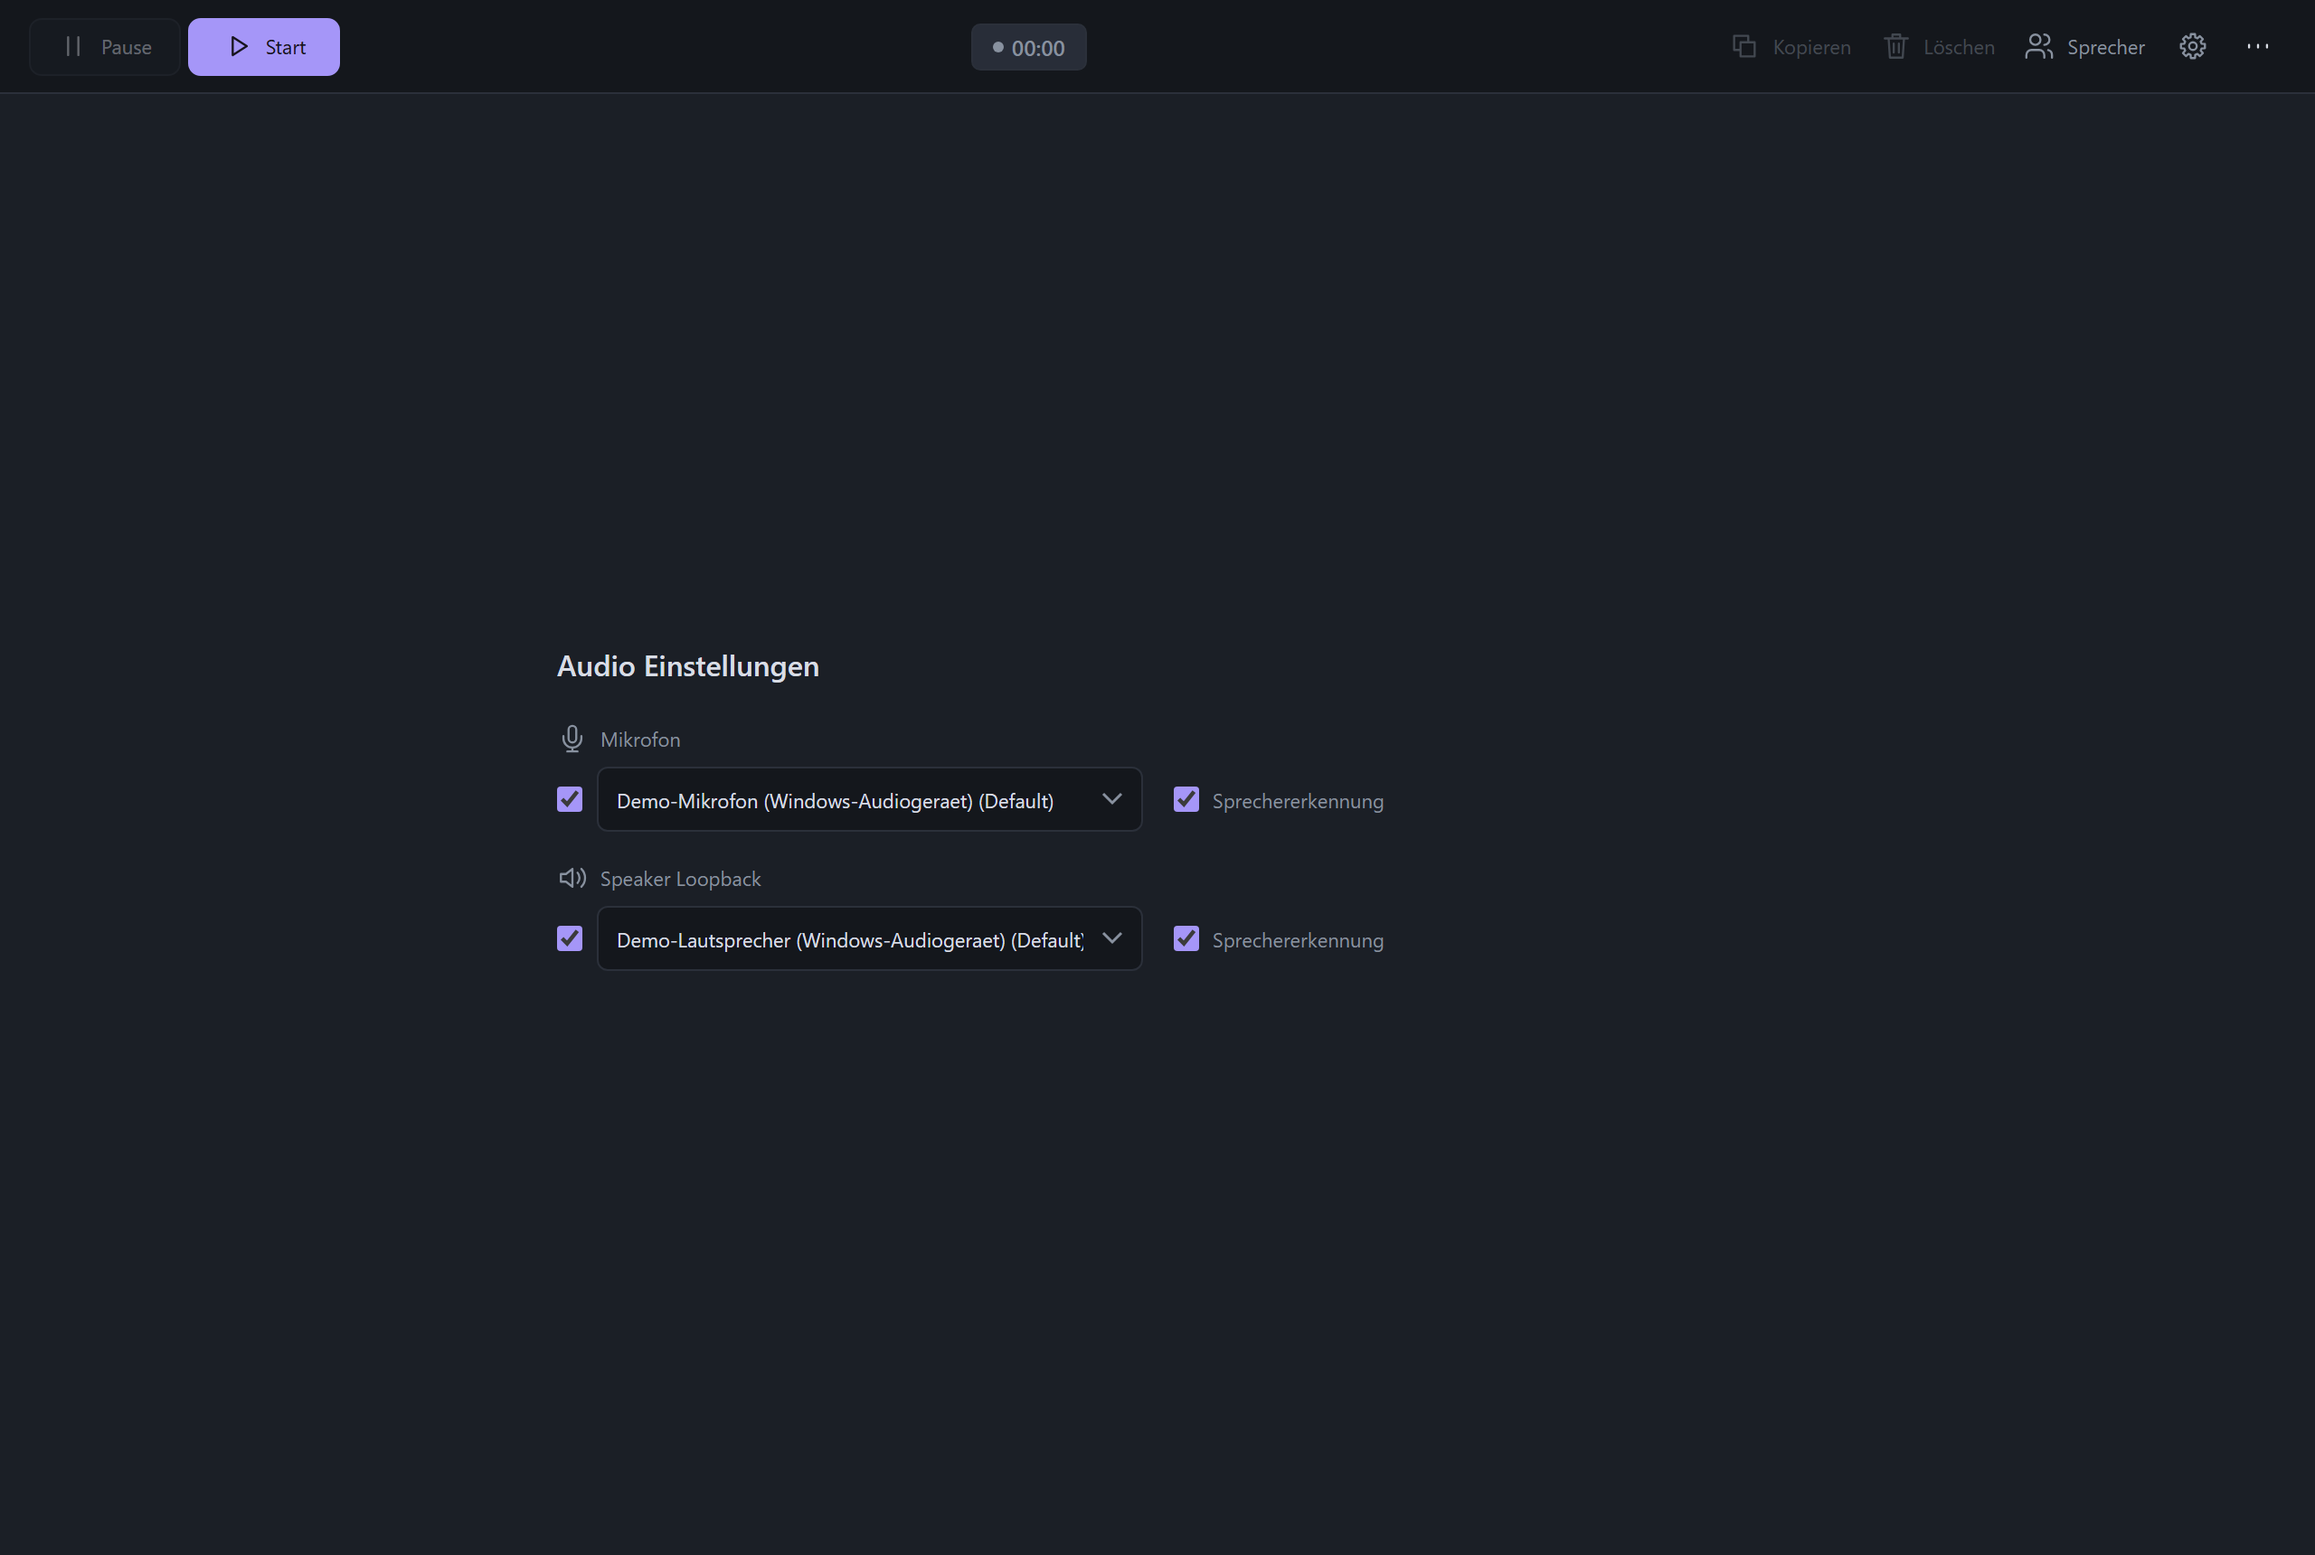
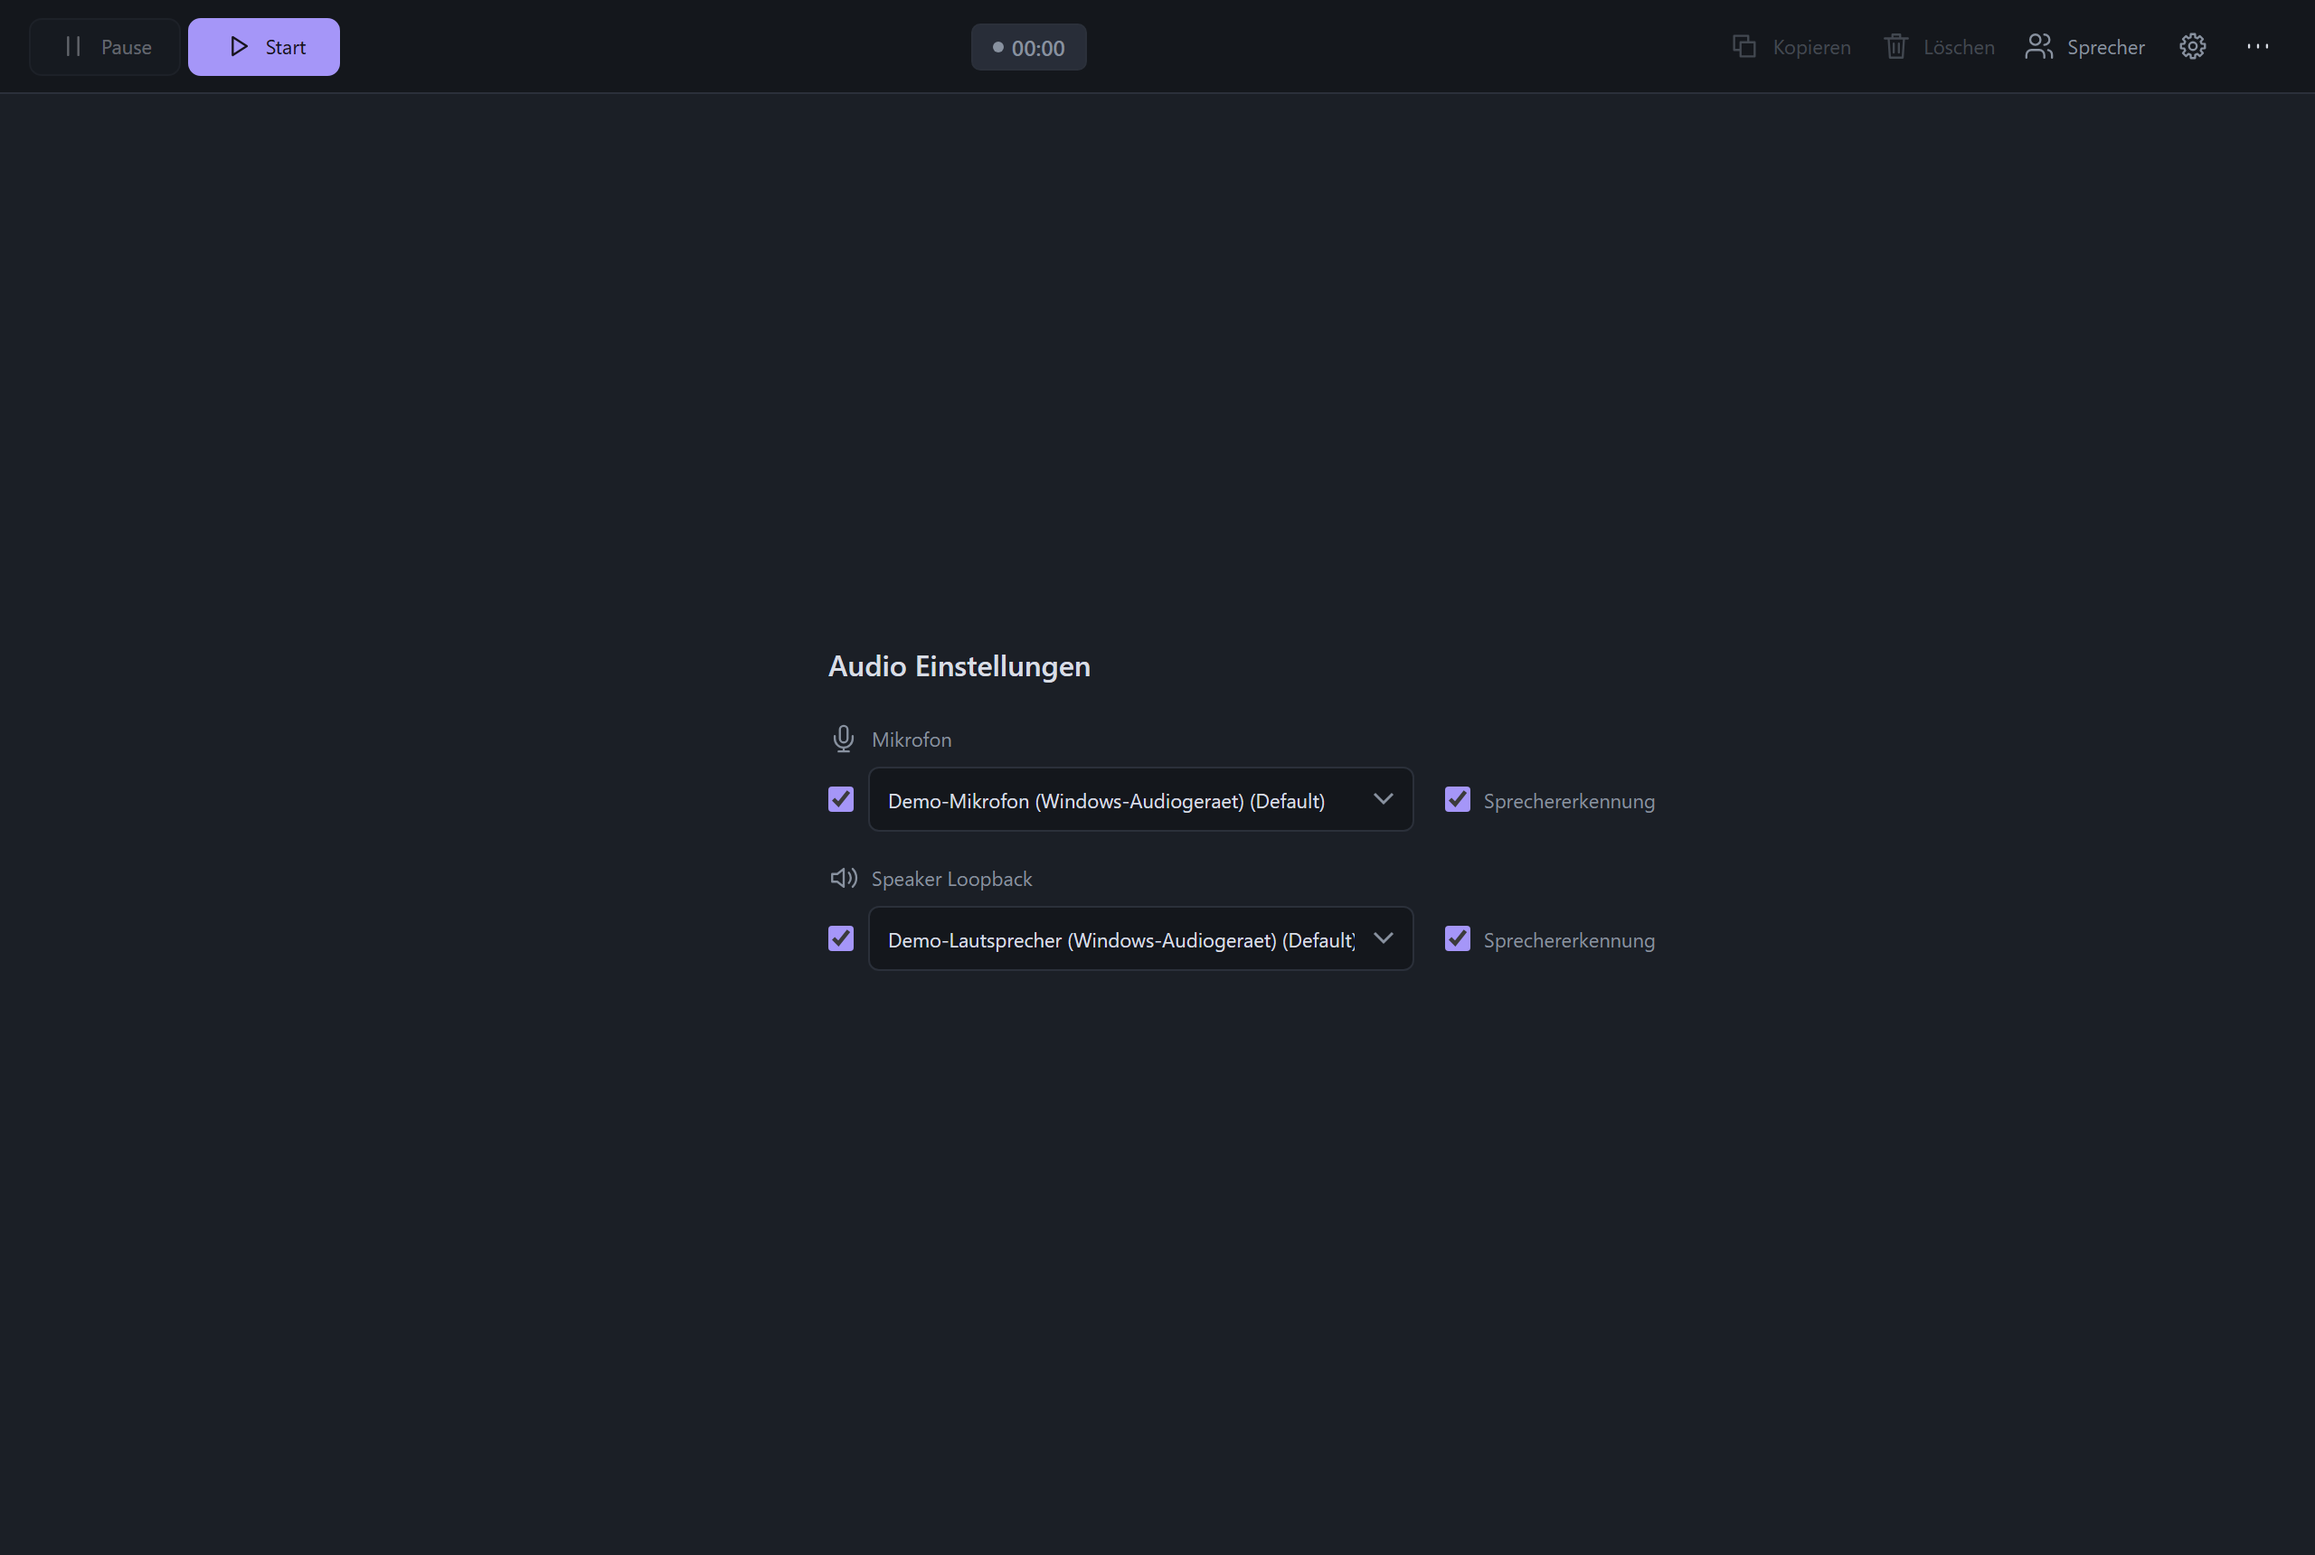
fix(settings): Section-Nav-Reste, Audio-Panel-Versatz und Screenshot-Sets nach dem Umbau

diff --git a/src/renderer/src/styles.css b/src/renderer/src/styles.css
@@ -100,7 +100,7 @@ summary::-webkit-details-marker { display: none; }
 .floating-follow { position: absolute; bottom: 16px; right: 24px; z-index: 2; background: #363044; color: #d4c5ff; border-color: #655282; box-shadow: 0 5px 20px #00000040; }
 .floating-follow:hover { background: #4a3d62; }
 .idle-audio-panel { width: 100%; max-width: 720px; padding: 28px; margin: auto; min-height: 0; overflow: auto; flex-shrink: 1; transform: translateX(150px); }
-@media (max-width: 800px) { .idle-audio-panel { transform: none; } }
+@media (max-width: 1100px) { .idle-audio-panel { transform: none; } }
 .idle-audio-panel + .transcript-list { display: none; }
 .idle-audio-panel h2 { font-size: 16px; }
 .empty { color: var(--muted); padding: 24px 12px; margin: 0; }

diff --git a/docs/README.md b/docs/README.md
@@ -8,21 +8,20 @@ Zwei Aufnahmewege fuer die Oberflaeche von Meeting Notes.
 interaktiven Windows-Sitzung und zeichnet das echte Fenster mit
 `PrintWindow(PW_RENDERFULLCONTENT)` auf. Das Bild enthaelt dadurch echten
 Fensterrahmen, echtes App-Icon, echten WebView2-Inhalt und - bei
-`10-taskbar-mit-app-icon.png` - die echte Windows-Taskleiste mit dem Icon der App.
+`08-taskbar-mit-app-icon.png` - die echte Windows-Taskleiste mit dem Icon der App.
 
 Aufruf: `npm run screenshots:native` (siehe `scripts/run-native-capture.ps1`).
 
 | Datei | Inhalt |
 |---|---|
-| `native/01-startbildschirm.png` | Hauptfenster mit Quellen-Einstellungen |
-| `native/03-einstellungen-allgemein.png` | Einstellungen - Allgemein |
-| `native/04-einstellungen-audio.png` | Einstellungen - Audio |
-| `native/05-einstellungen-azure.png` | Einstellungen - Azure |
-| `native/06-einstellungen-proxy.png` | Einstellungen - Proxy |
-| `native/07-verbindungstest.png` | Verbindungstest gegen den echten Azure-Endpunkt (Dummy-Key -> HTTP 401) |
-| `native/08-sprecherzuordnung.png` | Sprecherzuordnung im Inspector |
-| `native/09-debug-log.png` | Debug-Log mit echten Logzeilen |
-| `native/10-taskbar-mit-app-icon.png` | Windows-Taskleiste mit dem Icon von Meeting Notes |
+| `native/01-startbildschirm.png` | Hauptfenster mit den Audio-Einstellungen der Startseite |
+| `native/02-einstellungen-oben.png` | Einstellungen von oben: Allgemein, Transkription, Azure |
+| `native/03-einstellungen-unten.png` | Einstellungen von unten: Azure und Proxy |
+| `native/04-verbindungstest.png` | Verbindungstest gegen den echten Azure-Endpunkt (Dummy-Key -> HTTP 401) |
+| `native/05-sprecherzuordnung.png` | Sprecherzuordnung im Inspector |
+| `native/06-debug-log.png` | Debug-Log mit echten Logzeilen |
+| `native/07-about-dialog.png` | About-Dialog mit App-Icon und Repository-Link |
+| `native/08-taskbar-mit-app-icon.png` | Windows-Taskleiste mit dem Icon von Meeting Notes |
 
 ## `renderer/` - headless Renderer
 
@@ -36,10 +35,17 @@ Aufnahme Azure-Speech-Credentials braucht.
 |---|---|
 | `renderer/01-startbildschirm.png` | Startbildschirm mit Audio-Einstellungen |
 | `renderer/02-aufnahme-transkript.png` | Laufende Aufnahme mit Transkript und Sprechern |
-| `renderer/03-einstellungen-allgemein.png` | Einstellungen - Allgemein |
-| `renderer/04-einstellungen-audio.png` | Einstellungen - Audio |
-| `renderer/05-einstellungen-azure.png` | Einstellungen - Azure |
-| `renderer/06-einstellungen-proxy.png` | Einstellungen - Proxy |
-| `renderer/07-verbindungstest.png` | Diagnose-Dialog Verbindungstest |
-| `renderer/08-sprecherzuordnung.png` | Sprecherzuordnung im Inspector |
-| `renderer/09-debug-log.png` | Debug-Log-Dock |
+| `renderer/03-einstellungen-oben.png` | Einstellungen von oben: Allgemein, Transkription, Azure |
+| `renderer/04-einstellungen-unten.png` | Einstellungen von unten: Azure und Proxy |
+| `renderer/05-verbindungstest.png` | Diagnose-Dialog Verbindungstest |
+| `renderer/06-sprecherzuordnung.png` | Sprecherzuordnung im Inspector |
+| `renderer/07-debug-log.png` | Debug-Log-Dock |
+| `renderer/08-about-dialog.png` | About-Dialog |
+
+## Warum nur zwei Einstellungsbilder
+
+Der Dialog ist nach dem Umbau eine kompakte Seite: die Abschnitte **Allgemein**,
+**Transkription**, **Azure** und **Proxy** passen in einem Bild teilweise nebeneinander,
+und die Audio-Schalter liegen nur noch auf der Startseite. Vier Einzelaufnahmen
+wuerden deshalb Byte-Duplikate ergeben. Zwei Aufnahmen - von oben und von unten -
+zeigen den ganzen Dialog ohne Duplikat.

diff --git a/README.md b/README.md
@@ -44,28 +44,33 @@ See [docs/README.md](./docs/README.md) for the details of both sets.
 
 ### Settings
 
-The following settings captures predate the current **Transkription** section,
-start-page-only audio controls and temporary dialog drafts.
+The dialog is one compact scrolling page with the sections **Allgemein**,
+**Transkription**, **Azure** and **Proxy**. Audio controls live on the start page,
+so two captures - from the top and from the bottom - show the whole dialog.
 
-| Allgemein | Audio | Azure | Proxy |
-|---|---|---|---|
-| ![Settings section Allgemein](docs/native/03-einstellungen-allgemein.png) | ![Settings section Audio](docs/native/04-einstellungen-audio.png) | ![Settings section Azure](docs/native/05-einstellungen-azure.png) | ![Settings section Proxy](docs/native/06-einstellungen-proxy.png) |
+| Settings (top) | Settings (bottom) |
+|---|---|
+| ![Settings dialog from the top](docs/native/02-einstellungen-oben.png) | ![Settings dialog from the bottom](docs/native/03-einstellungen-unten.png) |
+
+### About
+
+![About dialog with app icon and repository link](docs/native/07-about-dialog.png)
 
 ### Connection diagnostics
 
-![Connection test dialog with step table](docs/native/07-verbindungstest.png)
+![Connection test dialog with step table](docs/native/04-verbindungstest.png)
 
 ### Speaker mapping
 
-![Speaker mapping panel with per-source aliases](docs/native/08-sprecherzuordnung.png)
+![Speaker mapping panel with per-source aliases](docs/native/05-sprecherzuordnung.png)
 
 ### Debug log
 
-![Debug log dock](docs/native/09-debug-log.png)
+![Debug log dock](docs/native/06-debug-log.png)
 
 ### Taskbar
 
-![Windows taskbar with the Meeting Notes app icon](docs/native/10-taskbar-mit-app-icon.png)
+![Windows taskbar with the Meeting Notes app icon](docs/native/08-taskbar-mit-app-icon.png)
 
 The notification-area icon, context menu, double-click and closing with X under
 both close-to-tray settings were manually confirmed on 2026-11-19. Alt+F4 and

diff --git a/CHANGELOG.md b/CHANGELOG.md
@@ -1,5 +1,21 @@
 # Changelog
 
+## Unreleased
+
+### Neu
+- **About-Dialog:** Im Drei-Punkte-Menue gibt es jetzt **About** mit App-Icon, Repository-Link, Autor und Lizenz. Der Link oeffnet die Repository-Seite ueber die neue Shell-Integration (`open_repository`).
+- **Dev-Tools (F12):** Ueber das Drei-Punkte-Menue lassen sich die WebView2-Entwicklerwerkzeuge direkt oeffnen.
+- **Abschnitt Transkription:** Die primaere Sprache liegt in einem eigenen Dialogabschnitt **Transkription**; **Allgemein** enthaelt nur noch die Systray-Einstellung.
+- **Audio-Schalter nur auf der Startseite:** Mikrofon, Speaker-Loopback und Sprechererkennung stehen nur noch im Leerzustand der Startseite.
+- **Temporaerer Dialog-Entwurf:** Dialogaenderungen bleiben bis zum **Speichern** im Entwurf. Beim Schliessen mit X, Escape oder Backdrop fragt die App nach ungespeicherten Aenderungen; der Verbindungstest nutzt den Entwurf, ohne ihn zu speichern.
+
+### Geaendert
+- Das Audio-Panel der Startseite ist auf breiten Fenstern um 150 px nach rechts versetzt, damit es nicht unter dem Inspector verschwindet; schmale Fenster (<= 1100 px) bleiben zentriert.
+- Webseiten-Kontextmenues sind ausserhalb editierbarer Textfelder unterdrueckt; native Menues bleiben erhalten.
+
+### Behoben
+- Zwei Regressionen aus dem Umbau behoben: die Diarization-Schalter werden jetzt auf der Startseite geprueft (sie liegen nicht mehr im Dialog), und der 150-px-Versatz des Audio-Panels greift erst ab 1100 px Breite - passend zum dokumentierten Verhalten.
+
 ## v0.1.3 - 19.11.2026
 
 ### Neu
